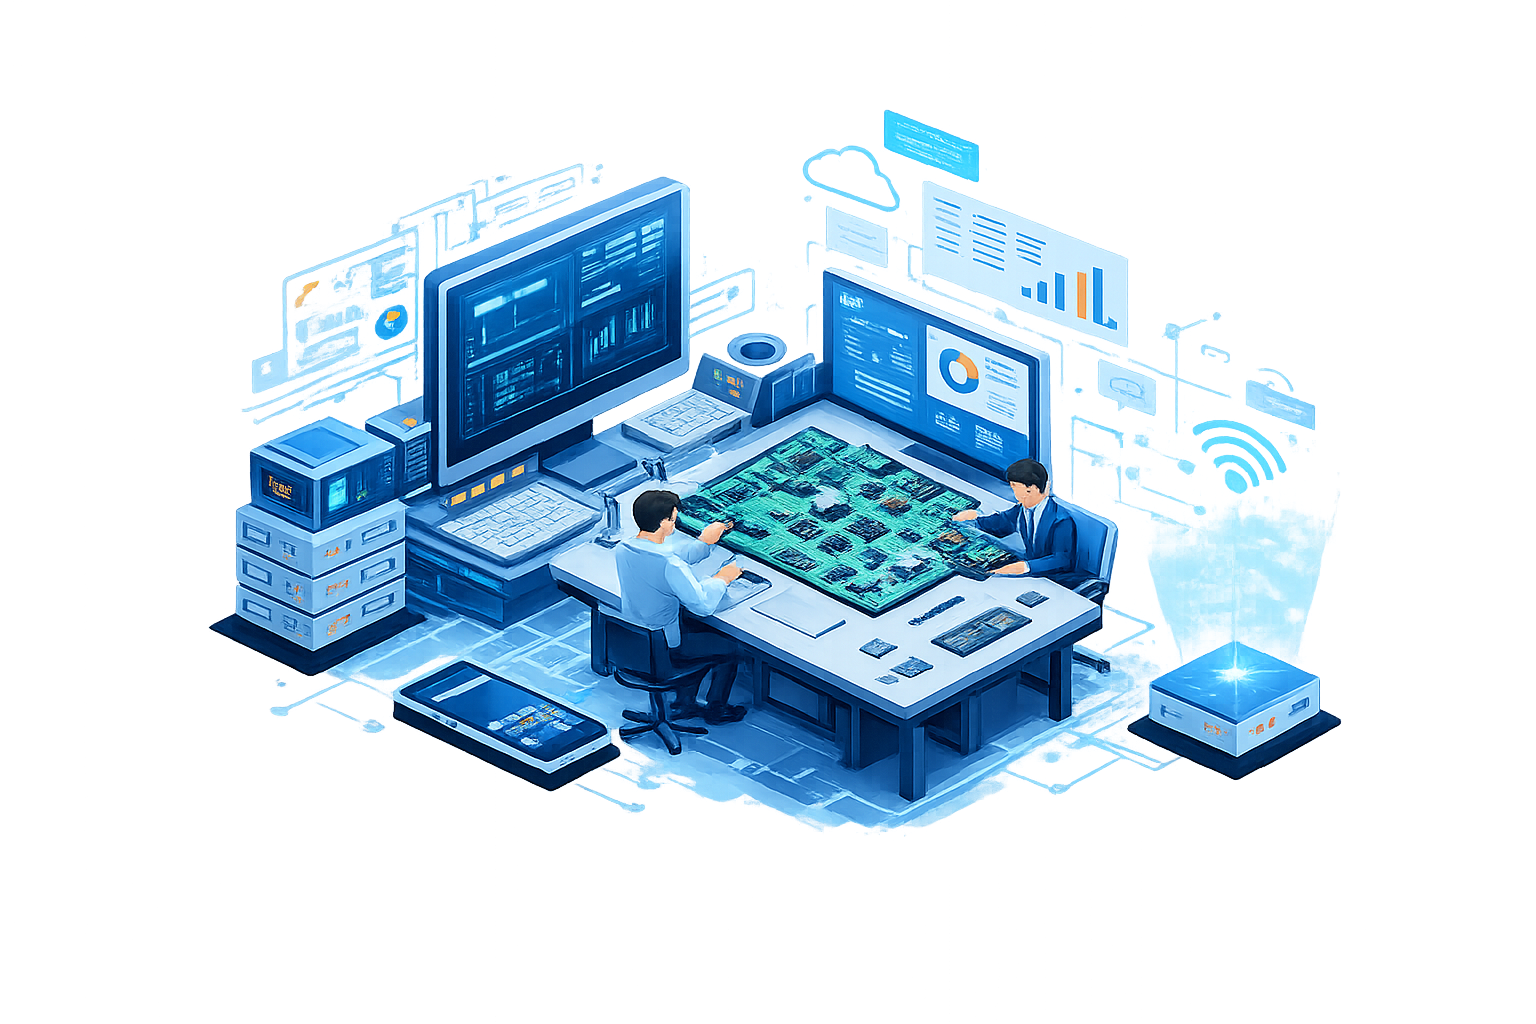
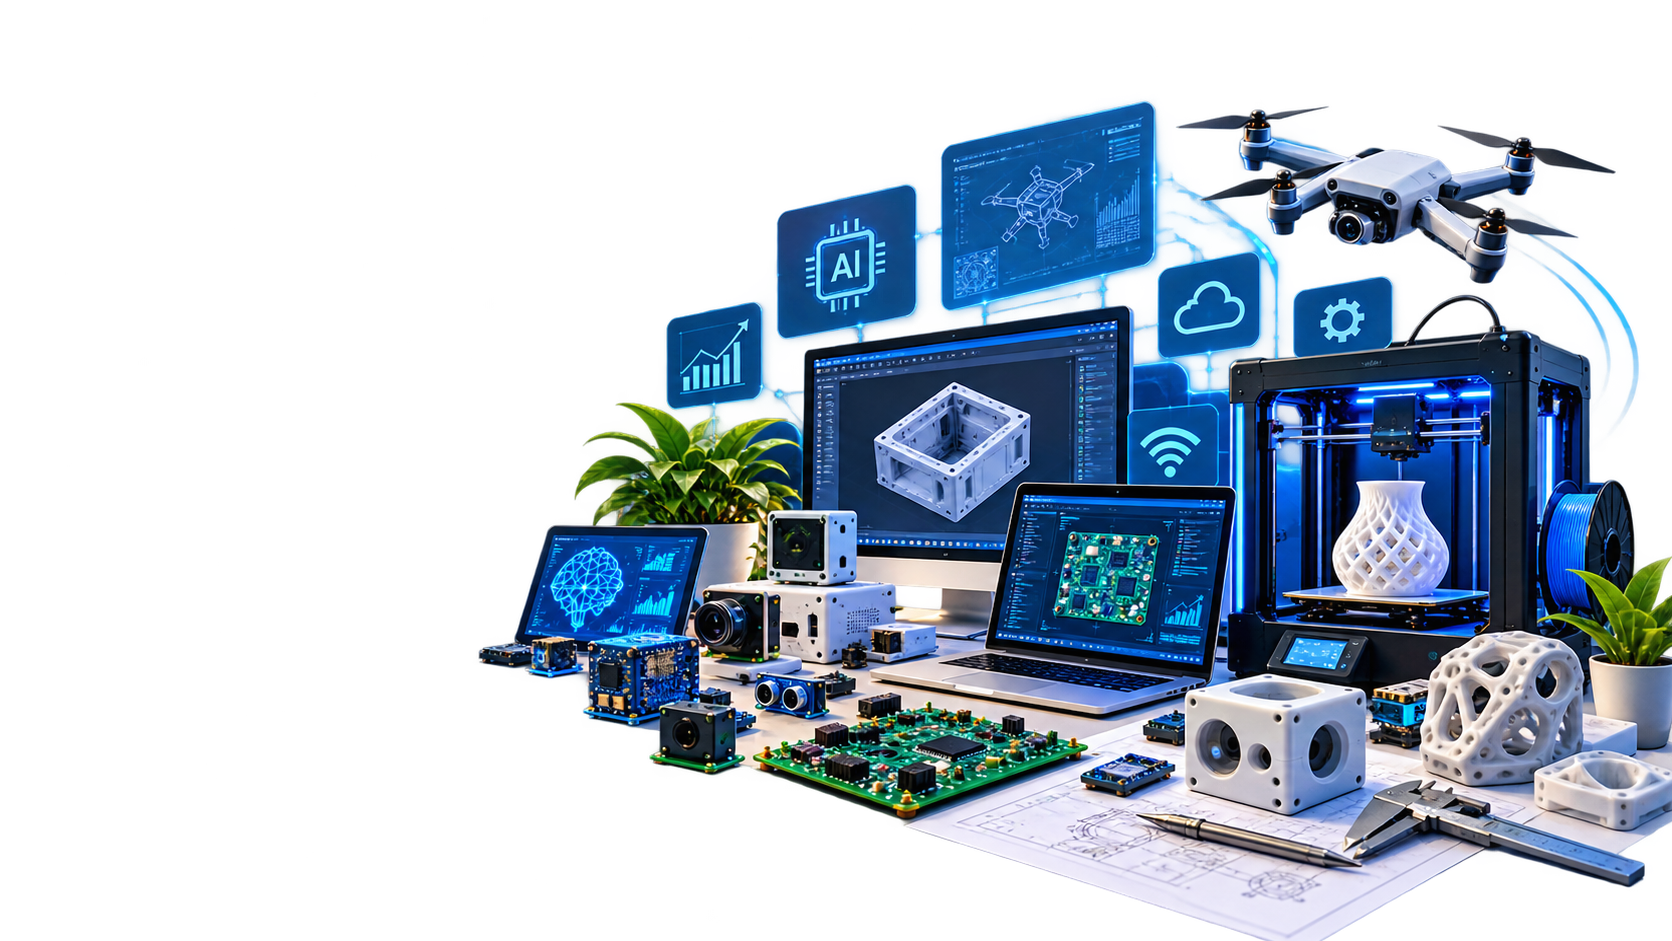
update hero

diff --git a/index.html b/index.html
@@ -2488,7 +2488,7 @@
                   loading="lazy" decoding="async">
               </div>
               <div class="team-info">
-                <h3>Manikantan R</h3>
+                <h3>Manikantan R Ex-IISc</h3>
                 <span class="role">Founder &amp; Chief Technology Officer</span>
                 <p>
                   Leads engineering and product development across embedded
@@ -2551,12 +2551,12 @@
 
           <div class="col-xl-4 col-md-6 team-column">
             <article class="team-card">
-              <div class="pic">
+              <div class="pic">s
                 <img src="assets/img/team/team-5.jpg"
                   alt="Mr. Krishna Kumar M" loading="lazy" decoding="async">
               </div>
               <div class="team-info">
-                <h3>Mr. Krishna Kumar M</h3>
+                <h3>Mr. Krishna Kumar M Ex-IISc</h3>
                 <span class="role">Chief Research Mentor</span>
                 <p>
                   Supports research review, technical assessment, performance
